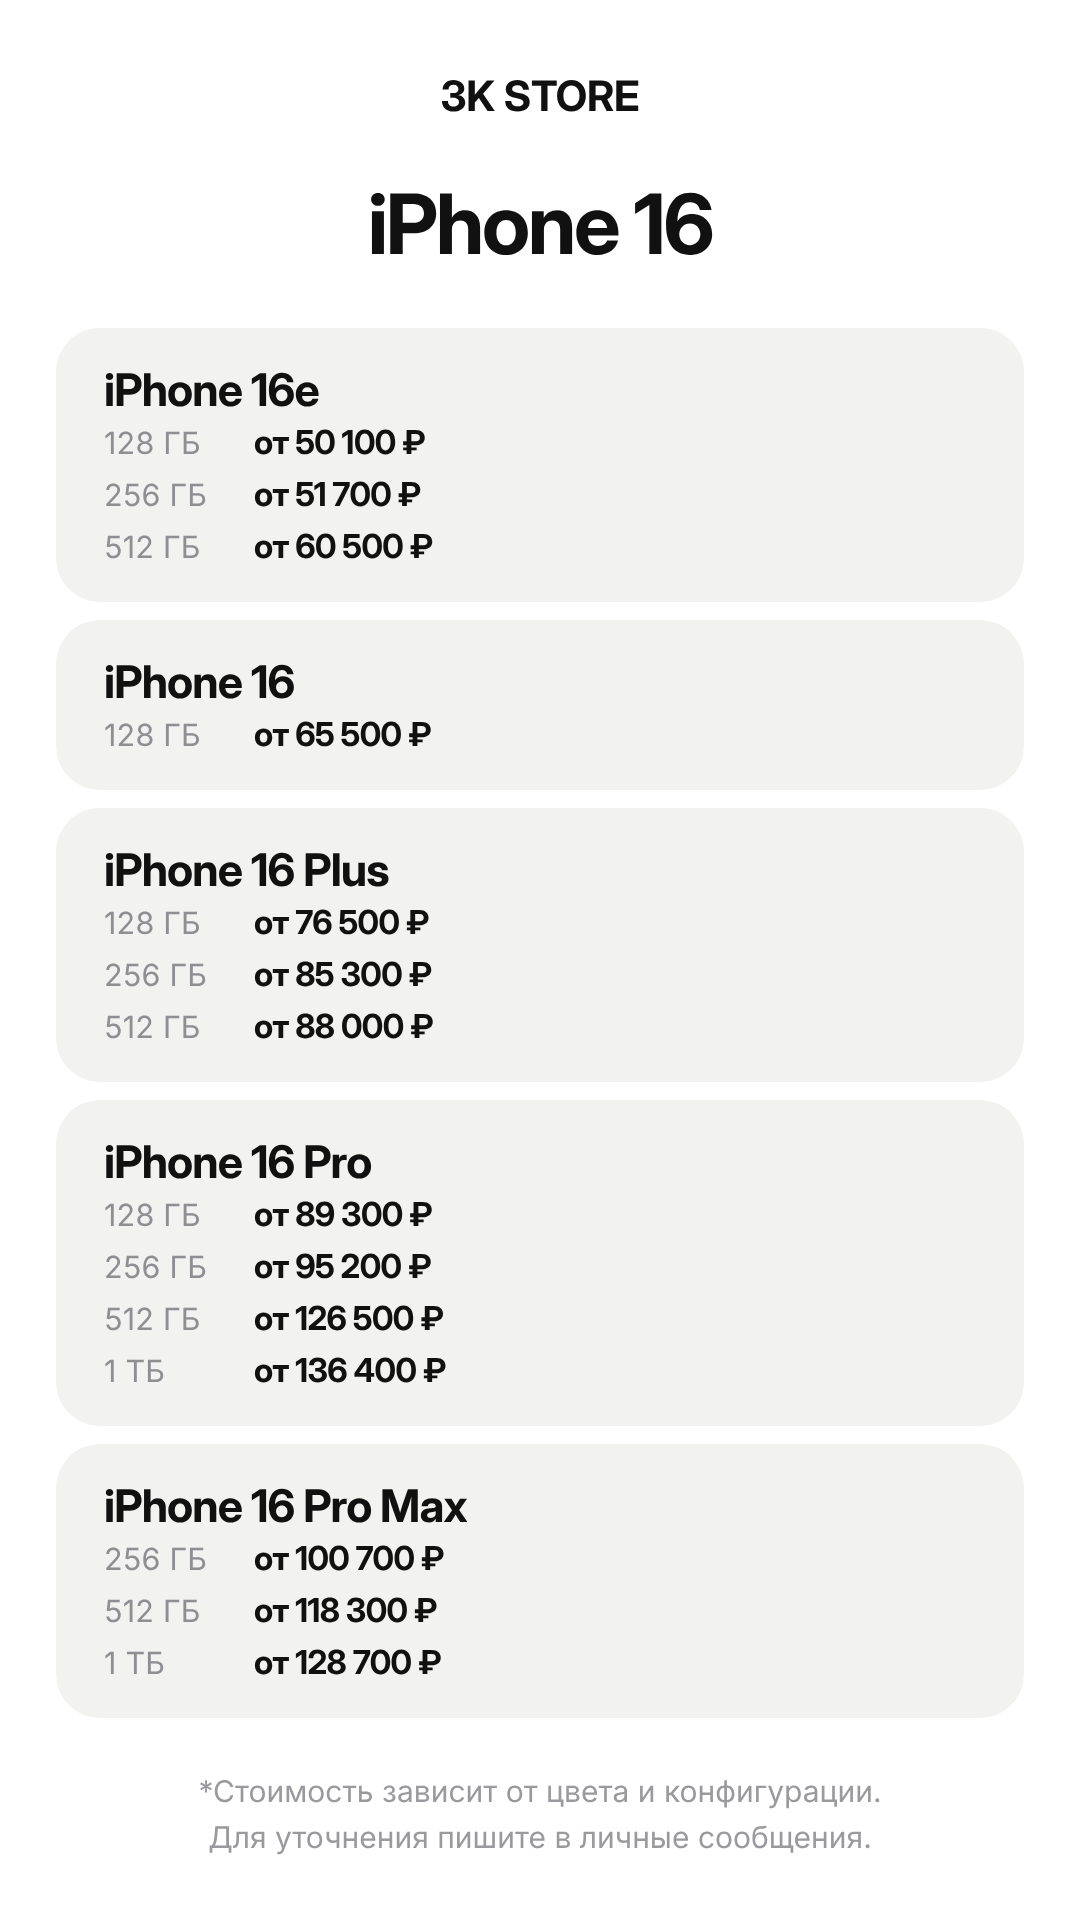
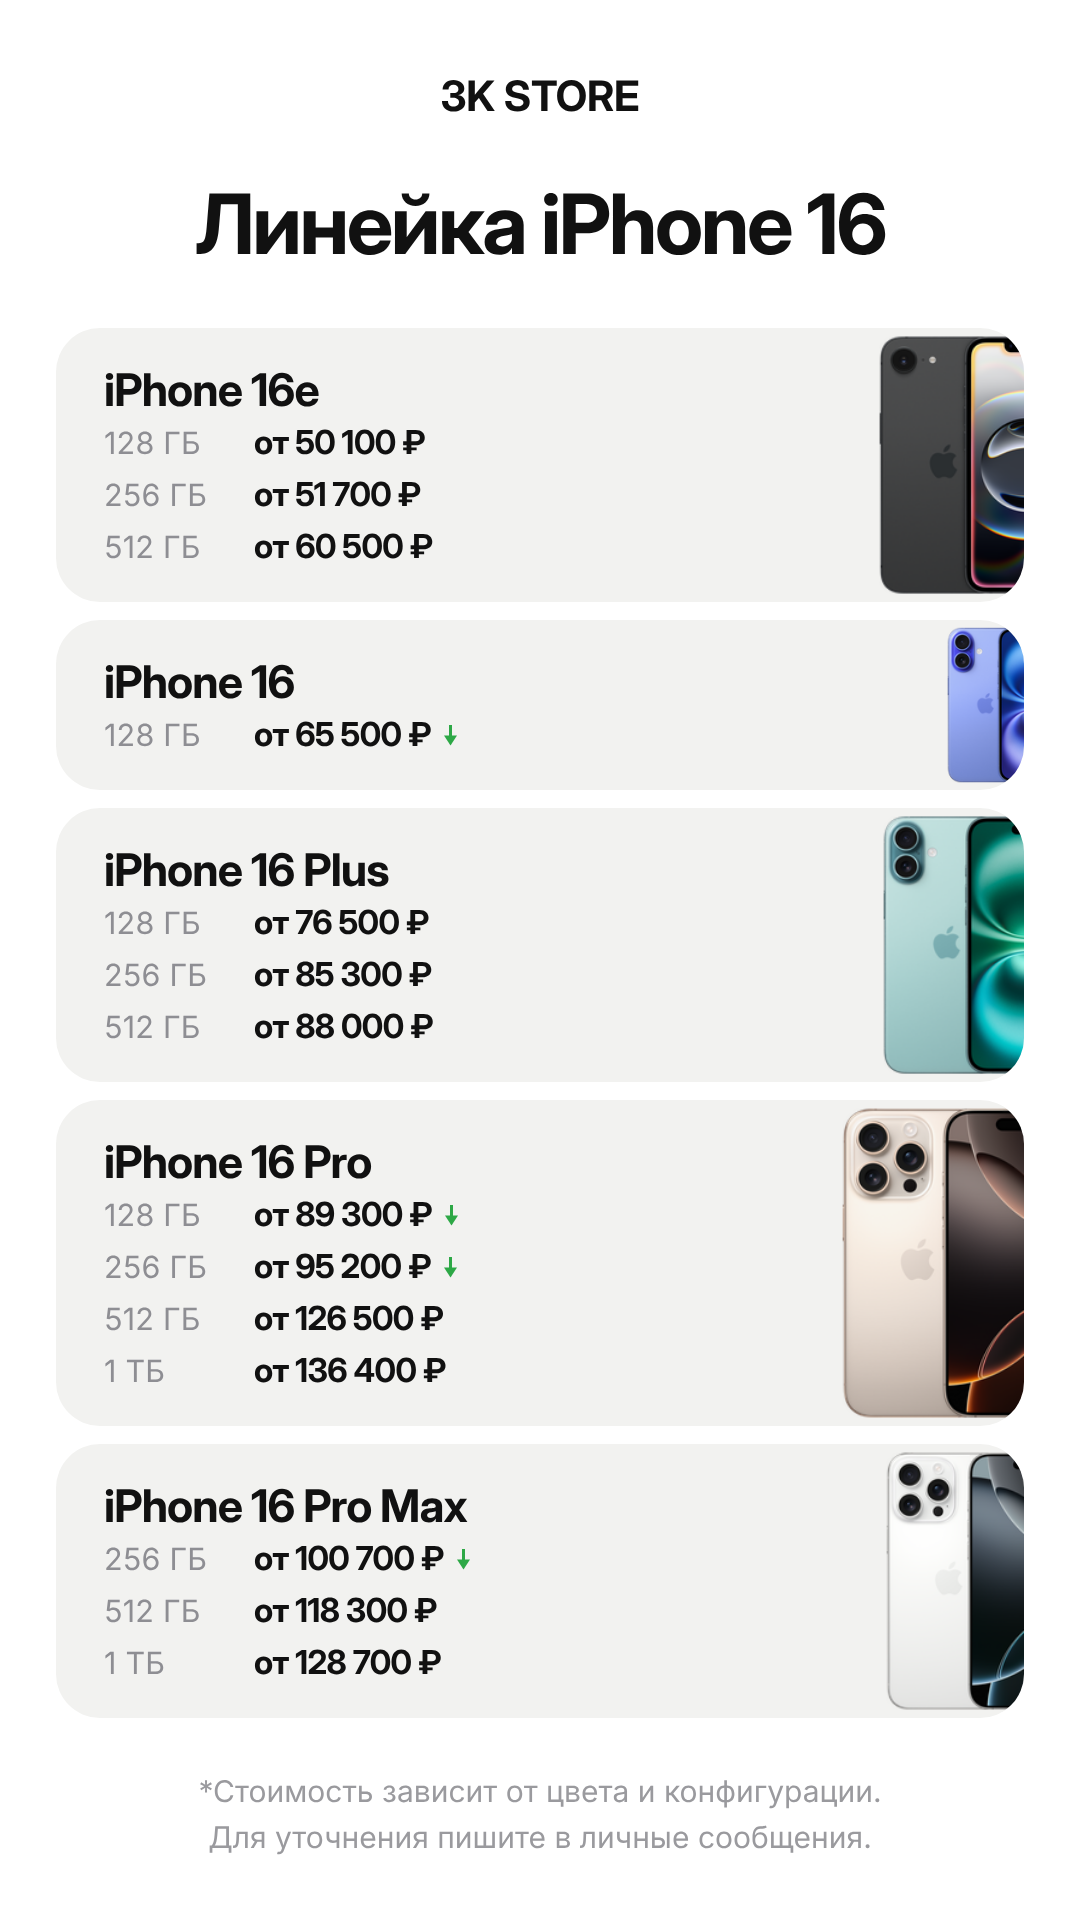
Прайс iPhone 16: фото телефонов и стрелки по прошлому прайсу
Claude-Session: https://claude.ai/code/session_014zc7qX9TFUN7T7gG8PEUD3

Changed region(s): [[0.7639, 0.1562, 0.9472, 0.9062], [0.1833, 0.0938, 0.825, 0.1562]]

diff --git a/price/iphone-16.js b/price/iphone-16.js
@@ -1,32 +1,32 @@
 // Прайс iPhone 16. price — минимальная цена сейчас, prev — в прошлом прайсе.
 // Стрелка вниз ставится сама, если price < prev.
 window.PRICE = {
-  title: 'iPhone 16',
+  title: 'Линейка iPhone 16',
   date: '24.10.2026',
   models: [
-    { name: 'iPhone 16e', rows: [
-      { mem: '128 ГБ', price: 50100 },
-      { mem: '256 ГБ', price: 51700 },
-      { mem: '512 ГБ', price: 60500 },
+    { name: 'iPhone 16e', phone: 'iphone-16e', rows: [
+      { mem: '128 ГБ', price: 50100, prev: 50100 },
+      { mem: '256 ГБ', price: 51700, prev: 51700 },
+      { mem: '512 ГБ', price: 60500, prev: 60000 },
     ]},
-    { name: 'iPhone 16', rows: [
-      { mem: '128 ГБ', price: 65500 },
+    { name: 'iPhone 16', phone: 'iphone-16', rows: [
+      { mem: '128 ГБ', price: 65500, prev: 66800 },
     ]},
-    { name: 'iPhone 16 Plus', rows: [
-      { mem: '128 ГБ', price: 76500 },
-      { mem: '256 ГБ', price: 85300 },
-      { mem: '512 ГБ', price: 88000 },
+    { name: 'iPhone 16 Plus', phone: 'iphone-16-plus', rows: [
+      { mem: '128 ГБ', price: 76500, prev: 76300 },
+      { mem: '256 ГБ', price: 85300, prev: 85300 },
+      { mem: '512 ГБ', price: 88000, prev: 88000 },
     ]},
-    { name: 'iPhone 16 Pro', rows: [
-      { mem: '128 ГБ', price: 89300 },
-      { mem: '256 ГБ', price: 95200 },
-      { mem: '512 ГБ', price: 126500 },
-      { mem: '1 ТБ', price: 136400 },
+    { name: 'iPhone 16 Pro', phone: 'iphone-16-pro', rows: [
+      { mem: '128 ГБ', price: 89300, prev: 93000 },
+      { mem: '256 ГБ', price: 95200, prev: 118800 },
+      { mem: '512 ГБ', price: 126500, prev: 126500 },
+      { mem: '1 ТБ', price: 136400, prev: 136400 },
     ]},
-    { name: 'iPhone 16 Pro Max', rows: [
-      { mem: '256 ГБ', price: 100700 },
-      { mem: '512 ГБ', price: 118300 },
-      { mem: '1 ТБ', price: 128700 },
+    { name: 'iPhone 16 Pro Max', phone: 'iphone-16-pro-max', rows: [
+      { mem: '256 ГБ', price: 100700, prev: 104000 },
+      { mem: '512 ГБ', price: 118300, prev: 118300 },
+      { mem: '1 ТБ', price: 128700, prev: 128700 },
     ]},
   ],
 };
